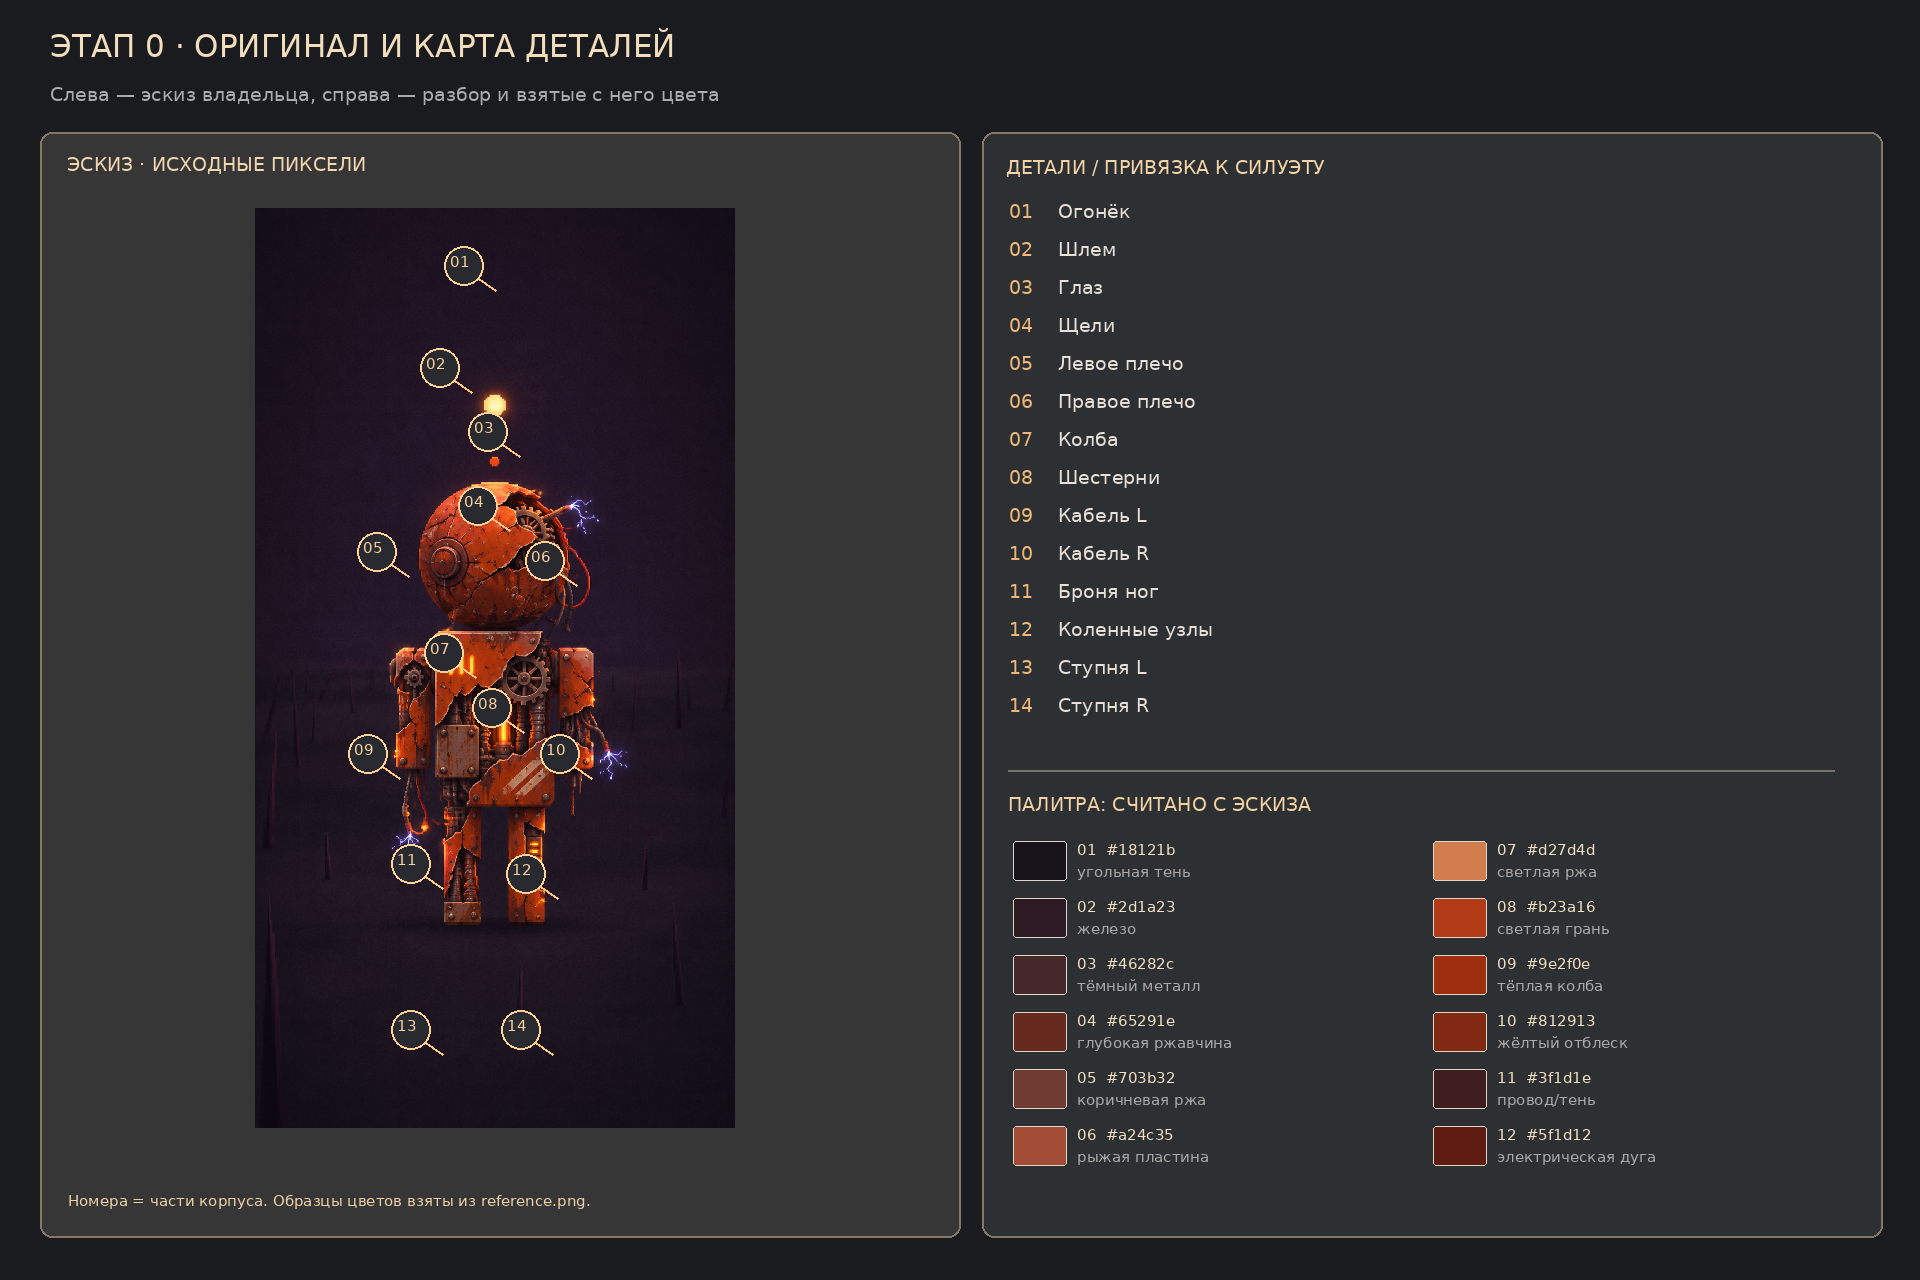
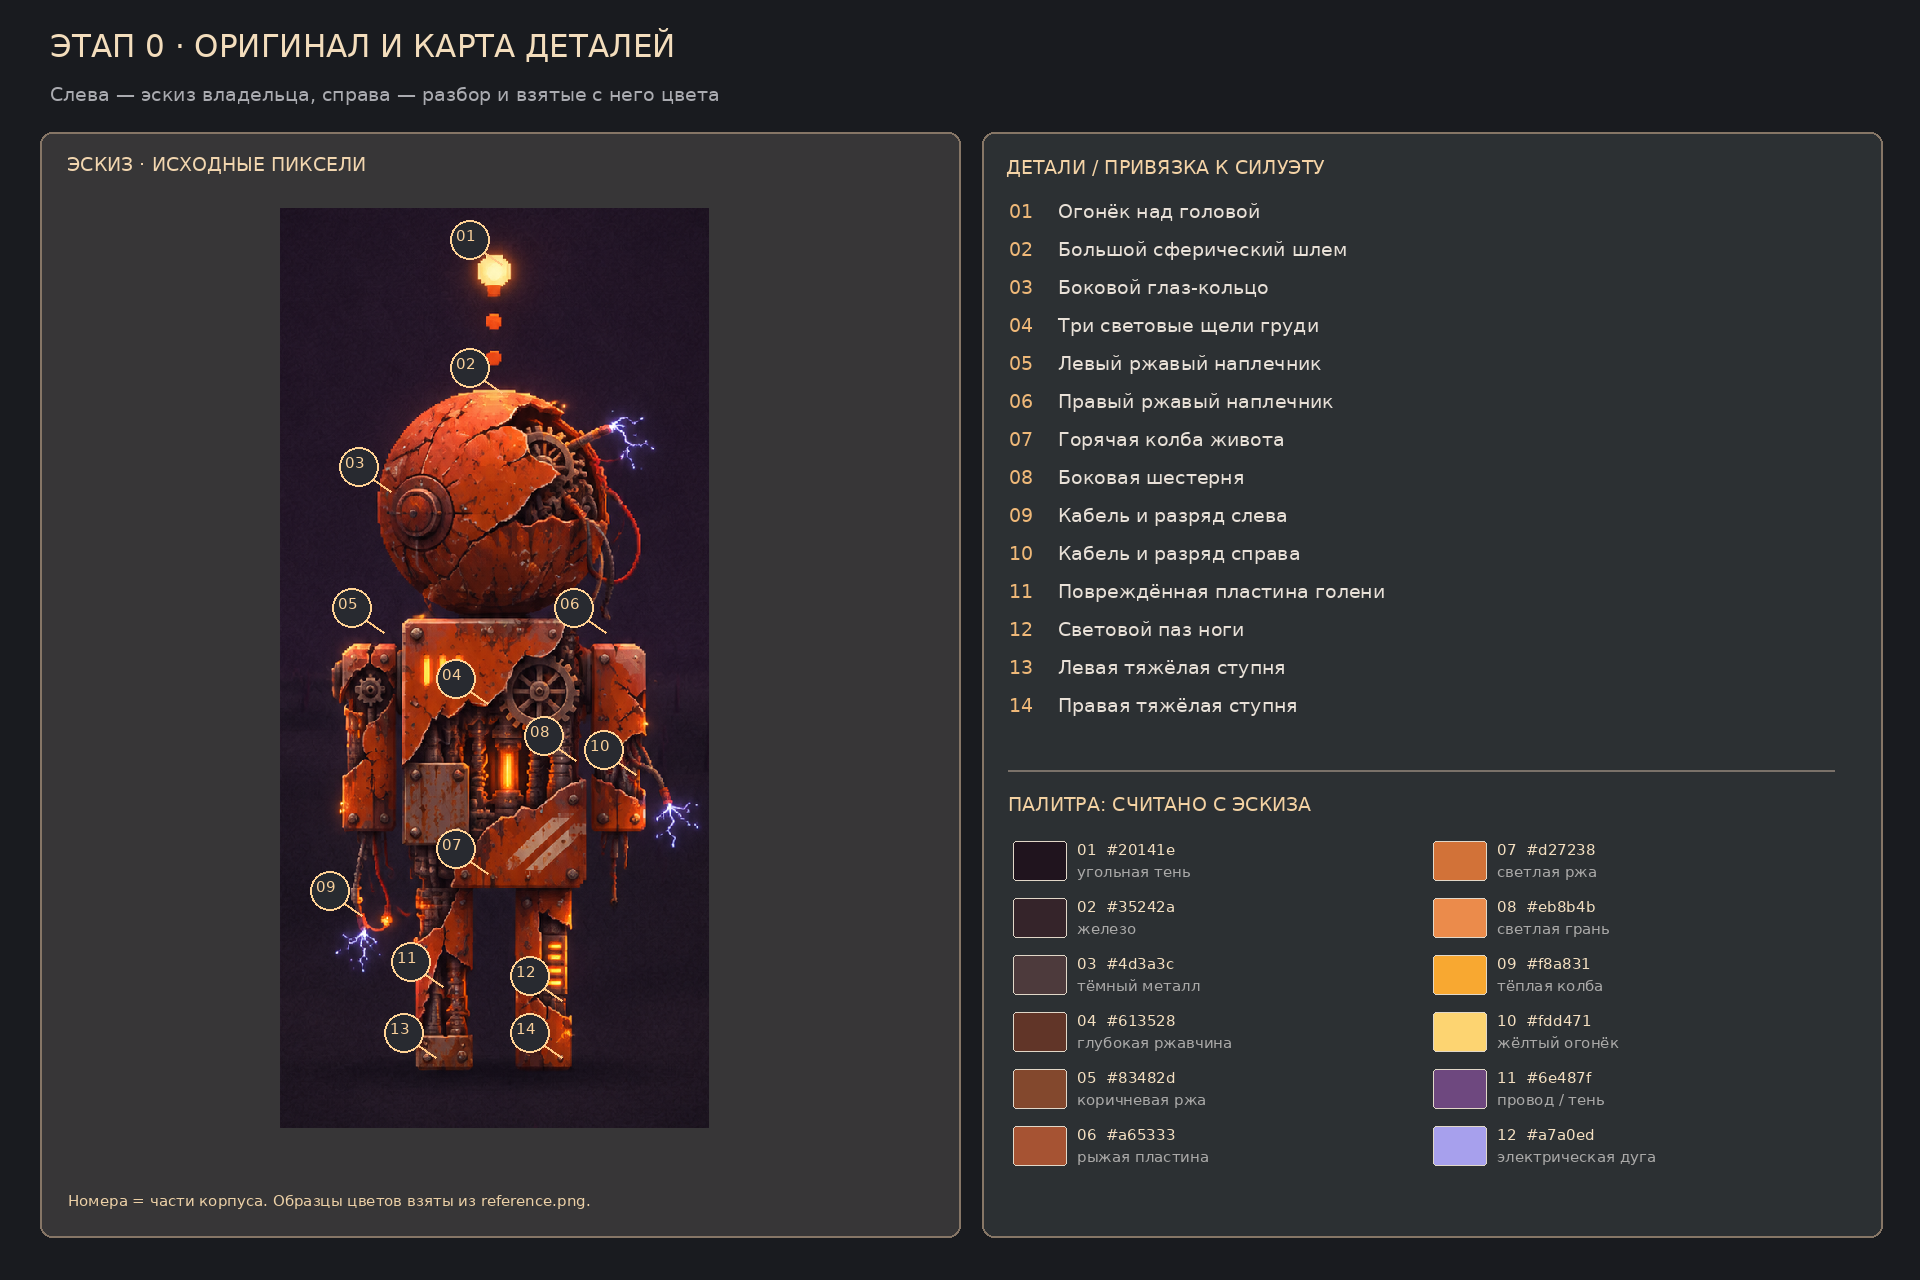
skin: stage 0 deliverables for Claude

diff --git a/skins/packs/rusty-robot/README.md b/skins/packs/rusty-robot/README.md
@@ -33,17 +33,17 @@
 
 | № | Поверхность | Цвет | Точка пикселя на исходнике |
 |---|---|---|---|
-| 1 | угольная тень | #18121b | (900, 1050) |
-| 2 | железо | #2d1a23 | (255, 1020) |
-| 3 | тёмный металл | #46282c | (580, 740) |
-| 4 | глубокая ржавчина | #65291e | (465, 810) |
-| 5 | коричневая ржа | #703b32 | (480, 920) |
-| 6 | рыжая пластина | #a24c35 | (425, 1310) |
-| 7 | светлая ржа | #d27d4d | (285, 860) |
-| 8 | светлая грань | #b23a16 | (360, 850) |
-| 9 | тёплая колба | #9e2f0e | (300, 950) |
-| 10 | жёлтый отблеск | #812913 | (590, 880) |
-| 11 | провод/тень | #3f1d1e | (270, 1060) |
-| 12 | электрическая дуга | #5f1d12 | (385, 730) |
+| 1 | угольная тень | #20141e | (406, 792) |
+| 2 | железо | #35242a | (528, 833) |
+| 3 | тёмный металл | #4d3a3c | (583, 921) |
+| 4 | глубокая ржавчина | #613528 | (415, 659) |
+| 5 | коричневая ржа | #83482d | (543, 590) |
+| 6 | рыжая пластина | #a65333 | (427, 705) |
+| 7 | светлая ржа | #d27238 | (509, 529) |
+| 8 | светлая грань | #eb8b4b | (631, 939) |
+| 9 | тёплая колба | #f8a831 | (522, 1214) |
+| 10 | жёлтый огонёк | #fdd471 | (468, 382) |
+| 11 | провод / тень | #6e487f | (608, 603) |
+| 12 | электрическая дуга | #a7a0ed | (683, 1044) |
 
 Силуэт: грубая асимметричная броня, крупные сколы; внутри видна механика, колба светится тёплым оранжевым, дуги связаны с кабелями. Движения указанны для будущих этапов, на этапе 0 не создаются.

diff --git a/skins/packs/rusty-robot/STAGE.md b/skins/packs/rusty-robot/STAGE.md
@@ -1,8 +1,8 @@
 # Ржавый робот — поэтапная сборка
 
 - этап 0 сделан
-- SHA: https://github.com/mpaykin1/meta6-lab/commit/42ebb7589f036e1f7758de57e243478d18868b50
-- Прогон: https://github.com/mpaykin1/meta6-lab/actions/runs/42663790994
+- SHA: https://github.com/mpaykin1/meta6-lab/commit/c4ffa0de4c95477421caf373919ce35718b17cc9
+- Прогон: https://github.com/mpaykin1/meta6-lab/actions/runs/42664350726
 - Картинка: https://github.com/mpaykin1/meta6-lab/blob/lab/skin-rusty-robot/skins/packs/rusty-robot/stages/0.png
 - Таблица 26 деталей и 12 образцов палитры: README.md
 - Эскиз: reference.png, Git blob f66ad0f0cf976b86600e91efd3e819cb81afe8d1
